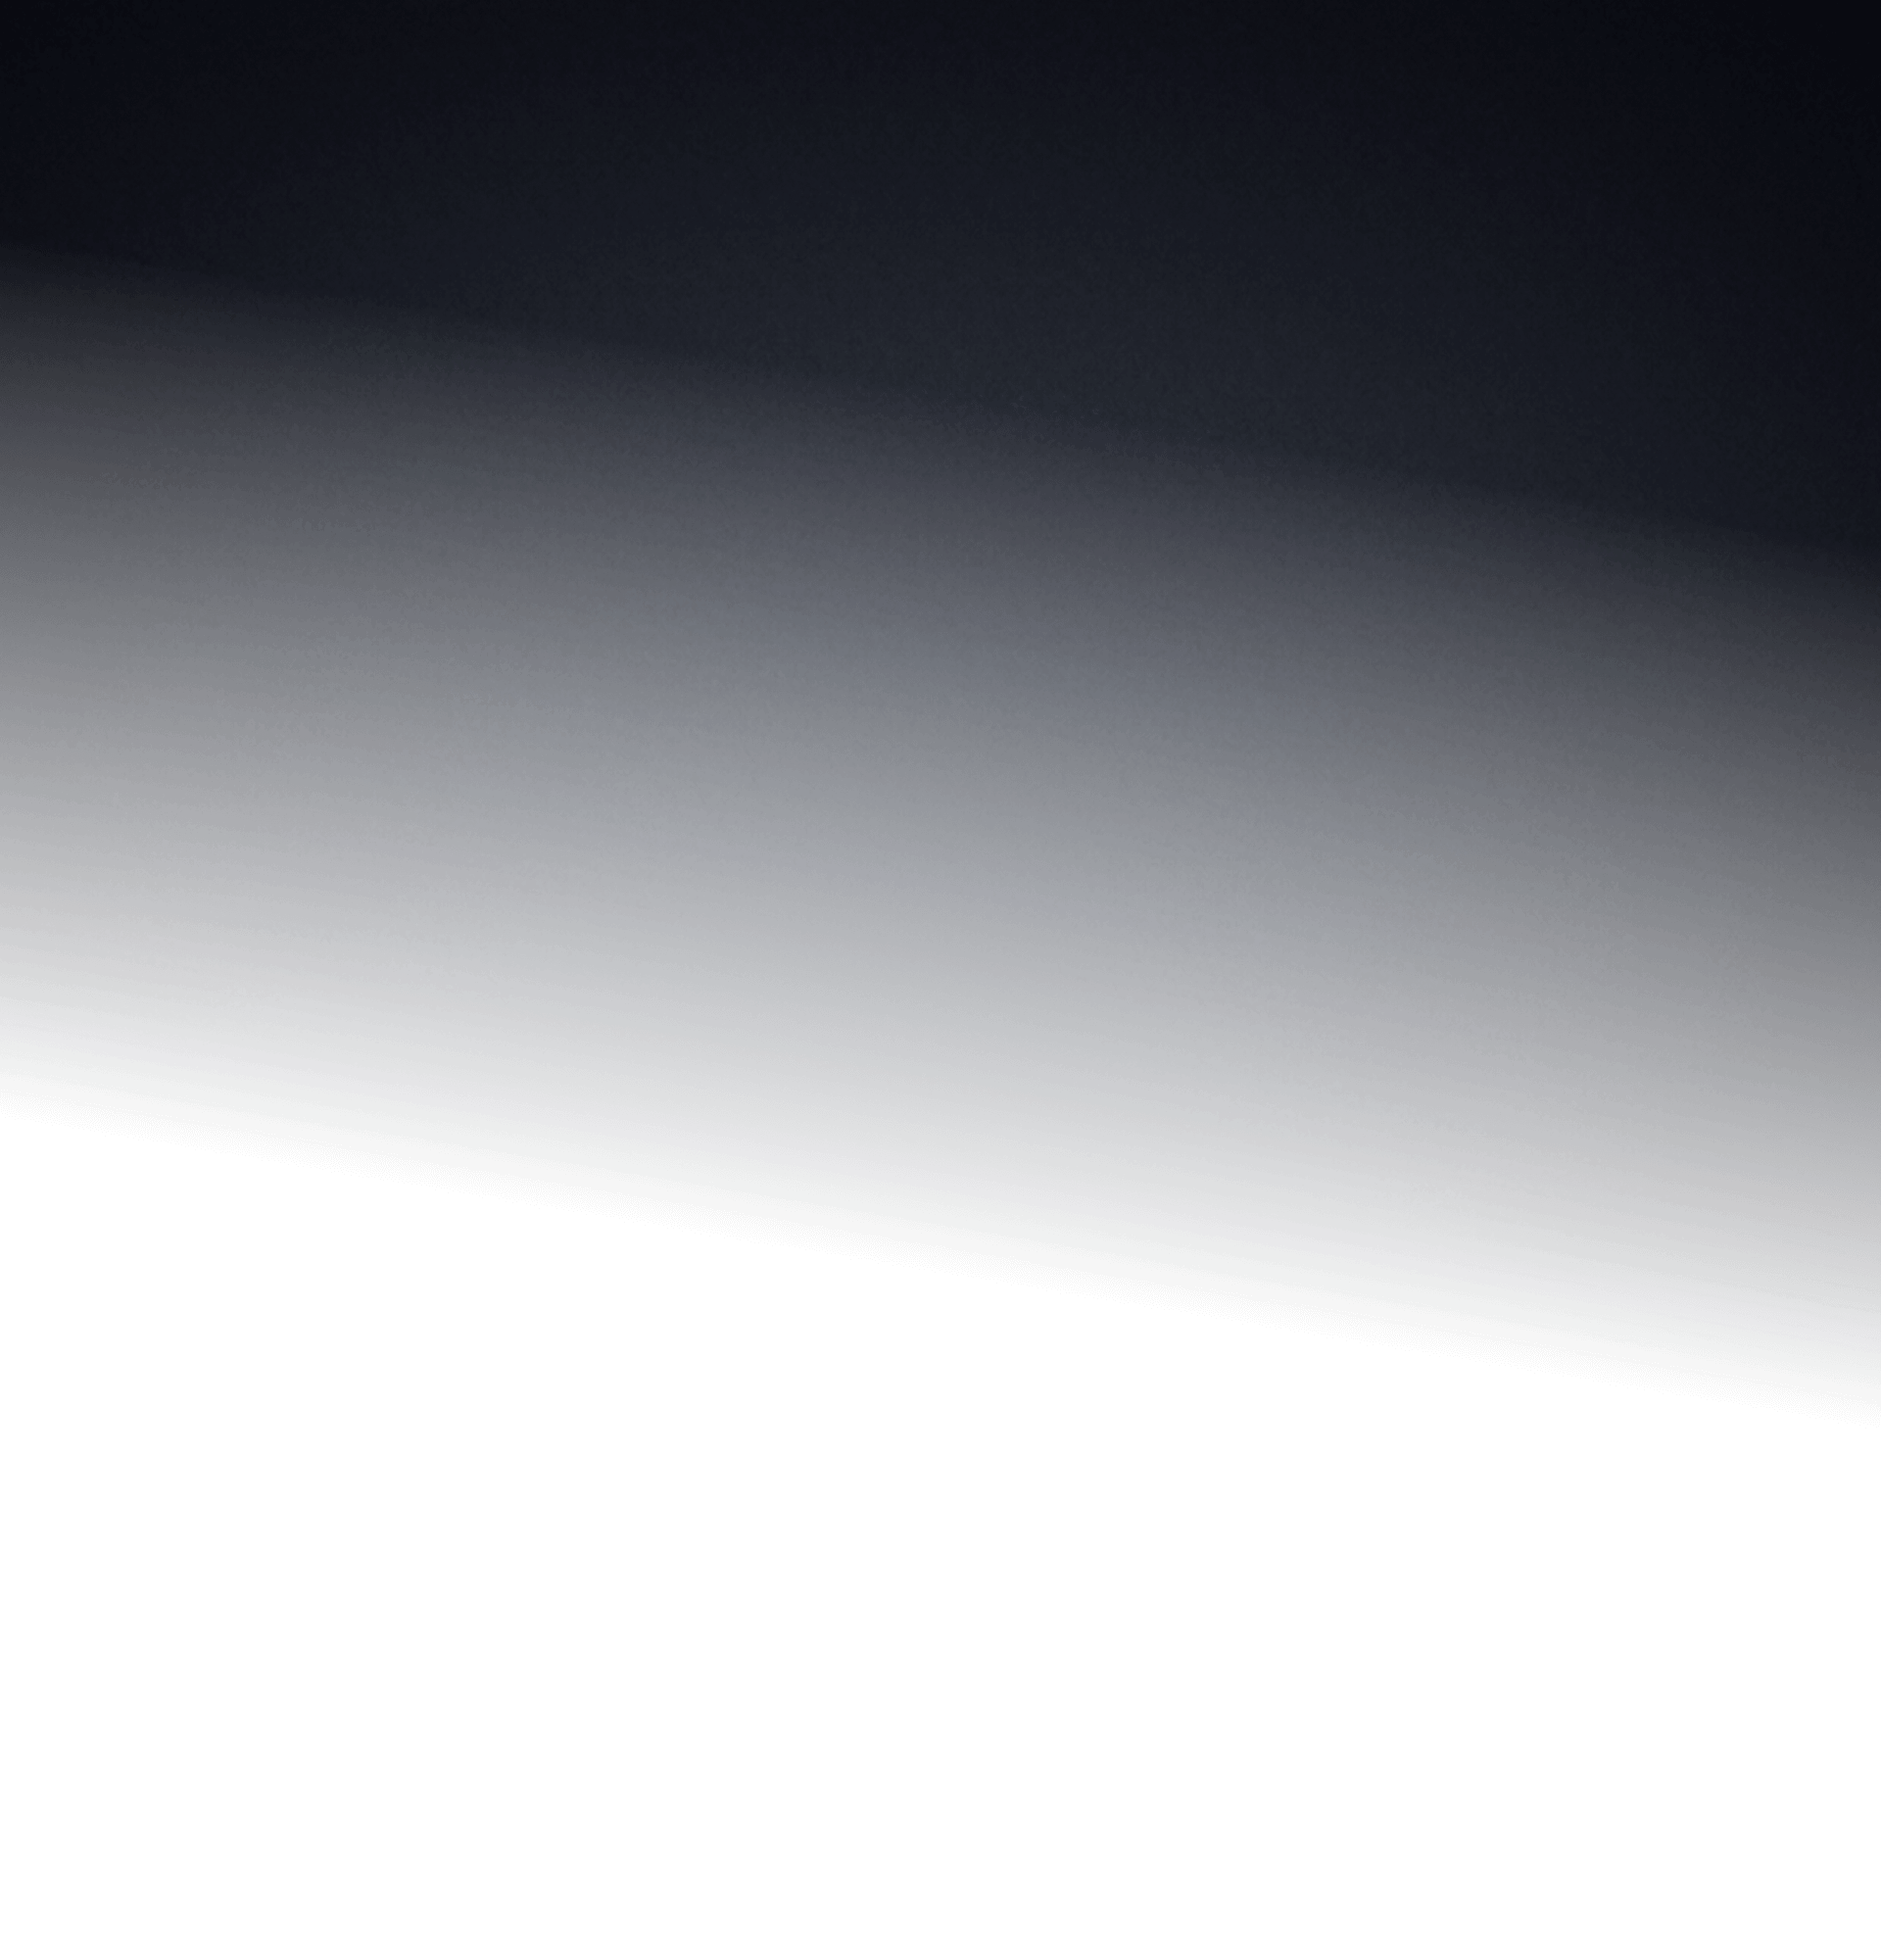
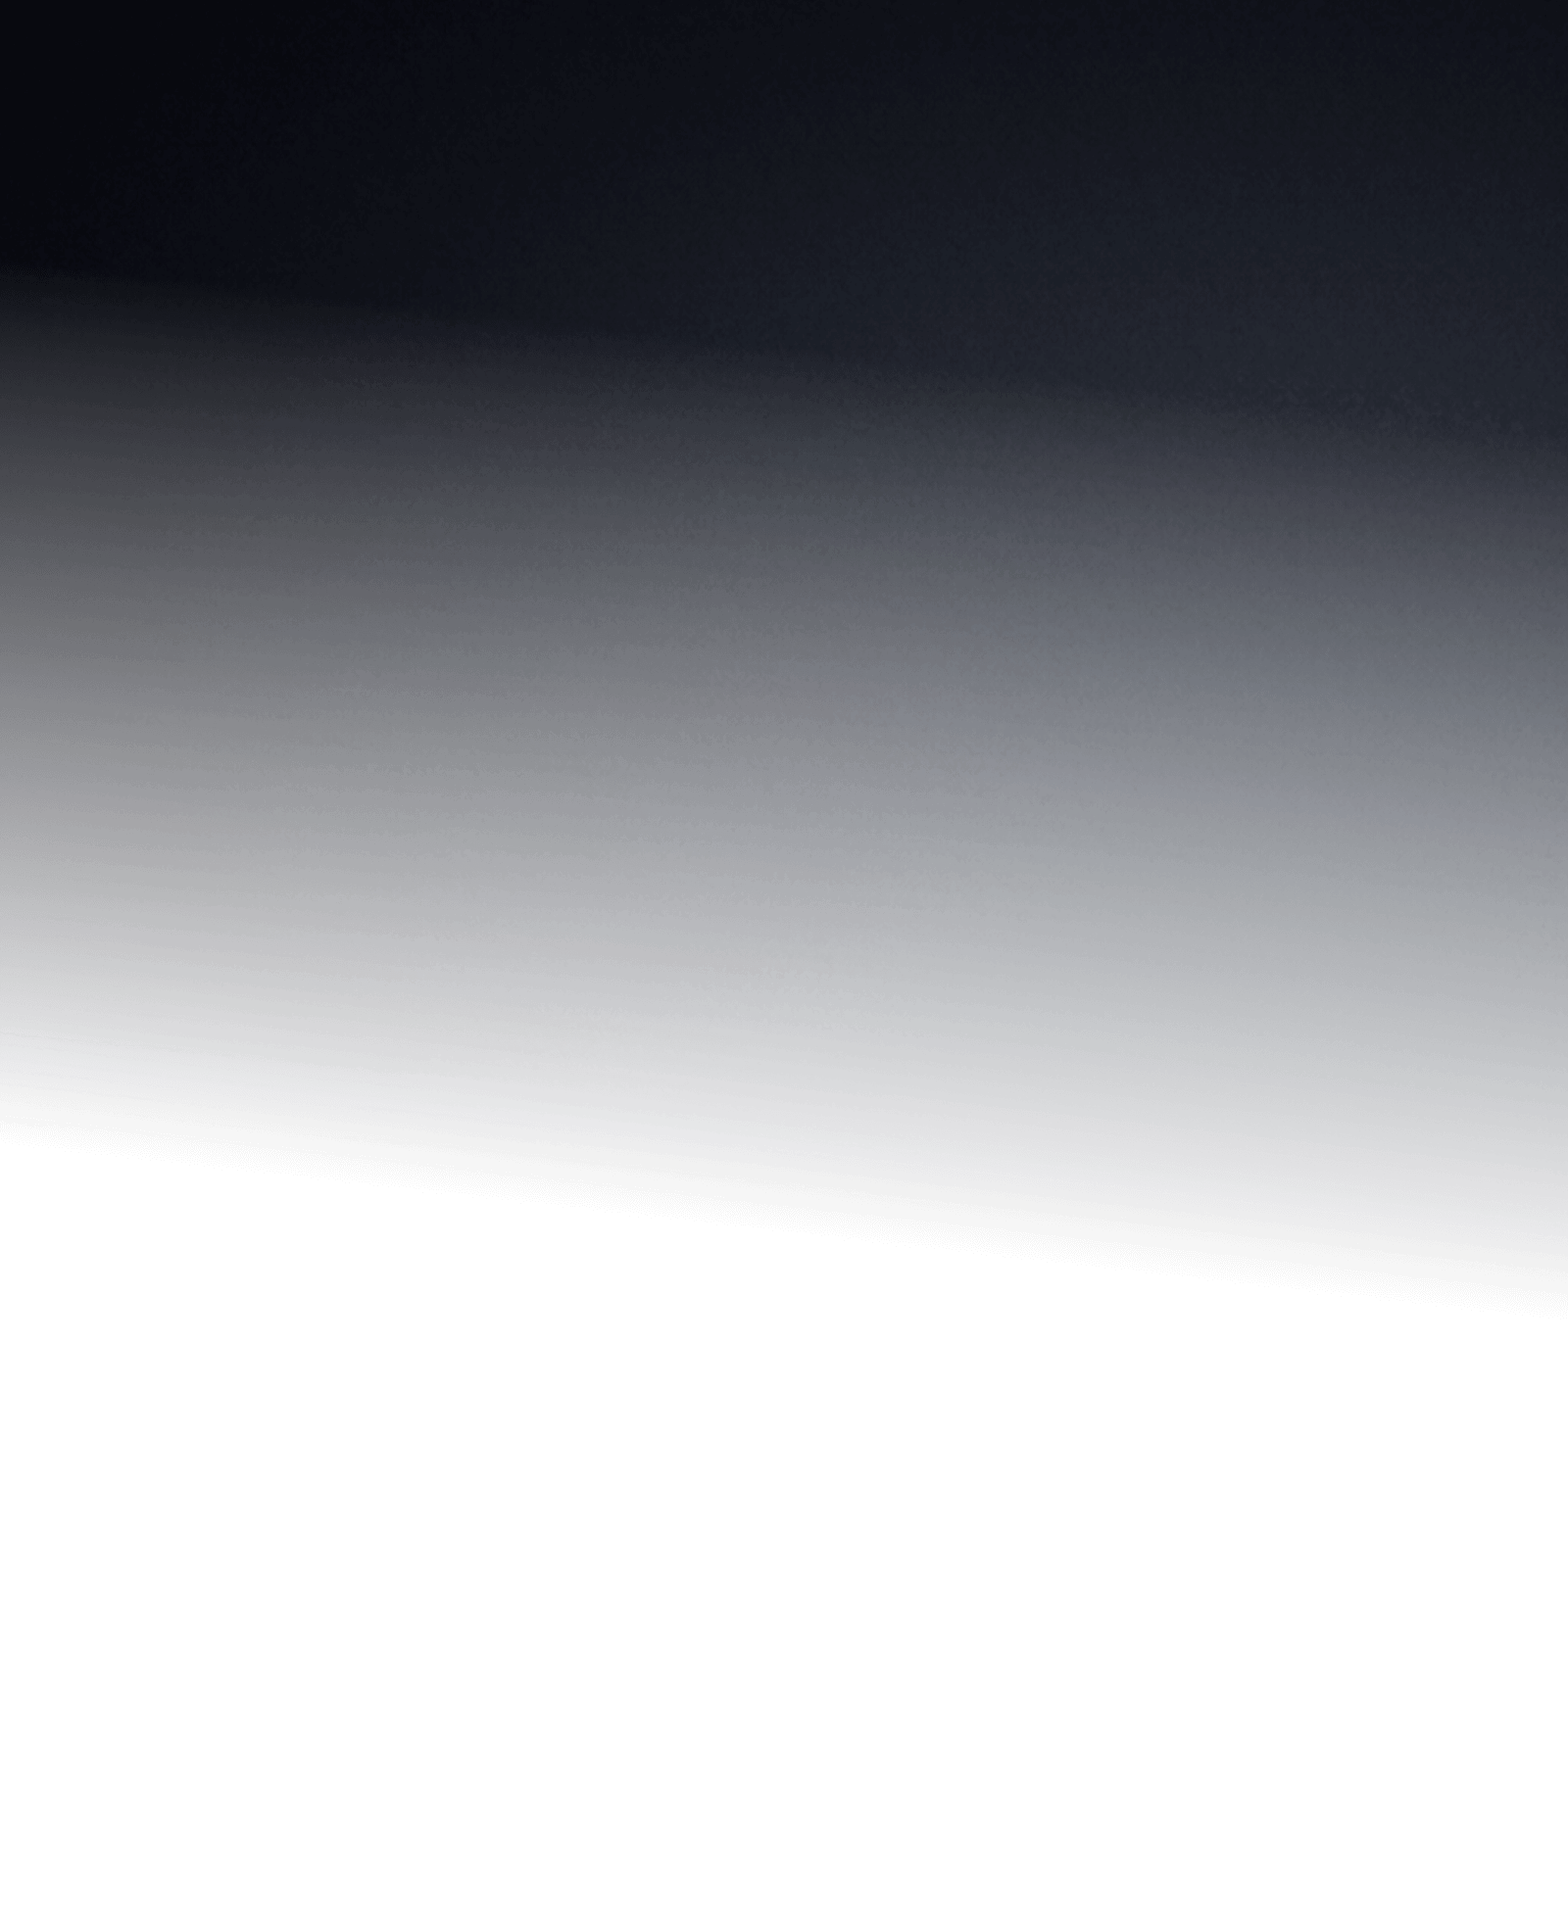
new styles new image

Changed region(s): [[0.7188, 0.2179, 1.0, 0.6847]]

diff --git a/local/templates/main/styles/global.css b/local/templates/main/styles/global.css
@@ -1793,7 +1793,8 @@ body {
 .catalog-page {
   background-position: top;
   background-repeat: no-repeat;
-  background-size: contain;
+  background-size: 100%;
+  background-attachment: local;
 }
 
 * {
@@ -3763,7 +3764,6 @@ textarea {
   display: block;
   width: 100%;
   height: auto;
-  max-height: 4.5625rem;
 }
 
 .s-partners__item:hover img {
@@ -3840,8 +3840,11 @@ textarea {
   transition: 0.2s;
 }
 
-.s-characteristics__item:hover .s-characteristics__item-text {
+.s-characteristics__item:hover .s-characteristics__item-text,
+.s-characteristics__item:hover .s-characteristics__item-number,
+.s-characteristics__item:hover .s-characteristics__item-title {
   color: #f4f4f2;
+  border-color: #f4f4f2;
 }
 
 .s-characteristics__item-top {
@@ -3875,6 +3878,7 @@ textarea {
   line-height: 1;
   color: #424346;
   white-space: nowrap;
+  transition: 0.2s;
 }
 
 .s-characteristics__item-title {
@@ -3882,6 +3886,7 @@ textarea {
   font-weight: 500;
   line-height: 1;
   color: #424346;
+  transition: 0.2s;
 }
 
 .s-characteristics__item:first-child .s-characteristics__item-top:before {
@@ -5681,10 +5686,6 @@ input[type="number"] {
     width: 12.5rem;
     min-height: 12.5rem;
     padding: 1.25rem 0.875rem;
-  }
-
-  .s-partners__item img {
-    max-height: 4.875rem;
   }
 
   .s-partners__btn {
